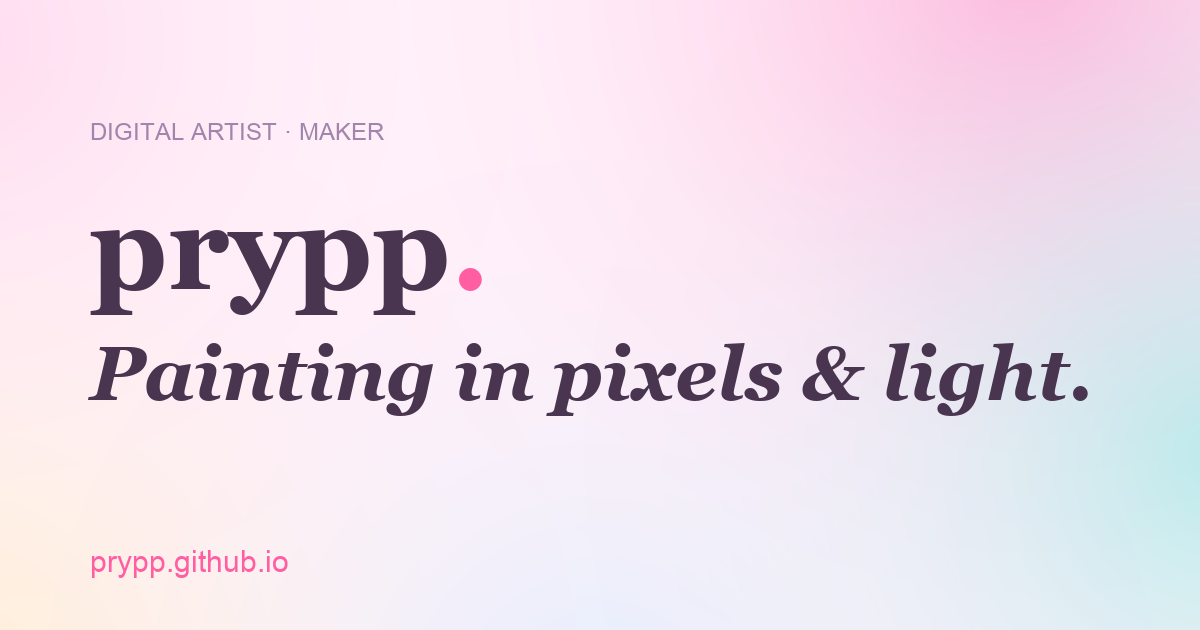
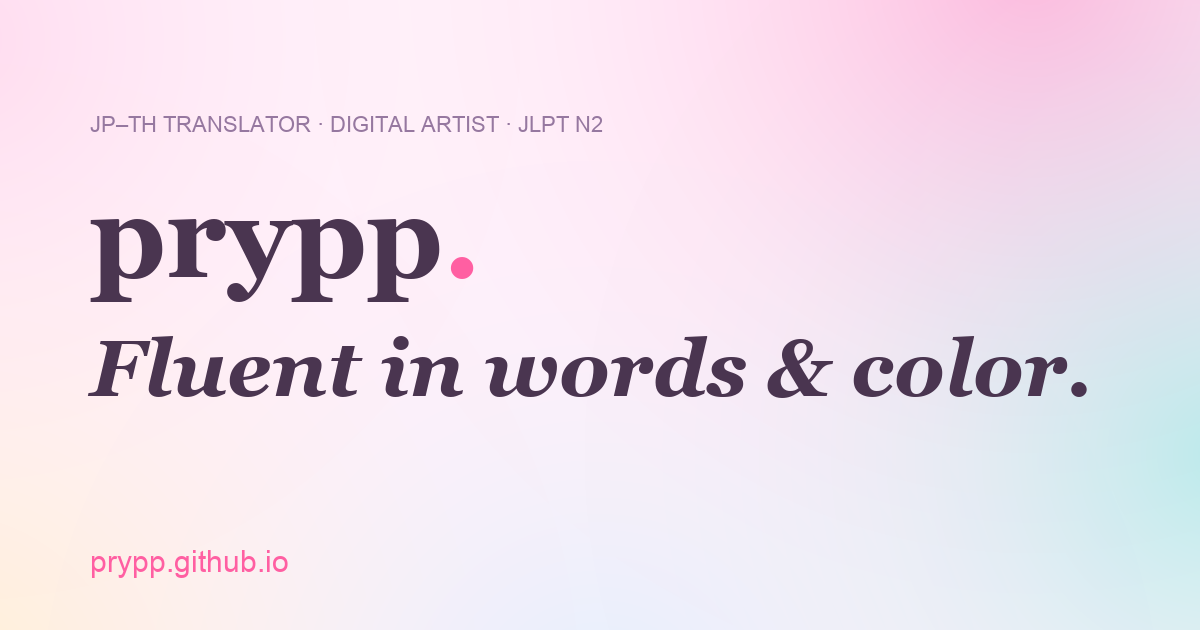
Reframe as dual portfolio: JP translator (primary) + art showcase
Add Experience timeline (4 roles), reorder About->Experience->Art,
dual hero (Fluent in words & color), languages/JLPT N2/TOEIC 640 facts,
art gallery as showcase, updated meta + OG image.

Changed region(s): [[0.0617, 0.3317, 0.925, 0.6635], [0.0617, 0.181, 0.5242, 0.2413]]

diff --git a/index.html b/index.html
@@ -3,8 +3,8 @@
 <head>
 <meta charset="UTF-8" />
 <meta name="viewport" content="width=device-width, initial-scale=1.0" />
-<title>prypp — Digital Artist & Maker</title>
-<meta name="description" content="Portfolio of prypp — digital artist and maker. Painting, illustration, and creative tooling." />
+<title>prypp — Japanese–Thai Translator & Digital Artist</title>
+<meta name="description" content="Portfolio of prypp — Japanese–Thai translator and interpreter (JLPT N2) and digital artist. Work history, languages, and art." />
 <meta name="theme-color" content="#fff2fb" />
 <link rel="canonical" href="https://prypp.github.io/" />
 <!-- favicon: hot-pink 'p.' mark on soft pink -->
@@ -12,14 +12,14 @@
 <!-- Open Graph / social share -->
 <meta property="og:type" content="website" />
 <meta property="og:url" content="https://prypp.github.io/" />
-<meta property="og:title" content="prypp — Digital Artist & Maker" />
-<meta property="og:description" content="Painting in pixels & light. Digital painting, illustration, and creative tooling." />
+<meta property="og:title" content="prypp — Japanese–Thai Translator & Digital Artist" />
+<meta property="og:description" content="Fluent in words & color. JP–TH translator/interpreter (JLPT N2) and digital artist." />
 <meta property="og:image" content="https://prypp.github.io/og.png" />
 <meta property="og:image:width" content="1200" />
 <meta property="og:image:height" content="630" />
 <meta name="twitter:card" content="summary_large_image" />
-<meta name="twitter:title" content="prypp — Digital Artist & Maker" />
-<meta name="twitter:description" content="Painting in pixels & light. Digital painting, illustration, and creative tooling." />
+<meta name="twitter:title" content="prypp — Japanese–Thai Translator & Digital Artist" />
+<meta name="twitter:description" content="Fluent in words & color. JP–TH translator/interpreter (JLPT N2) and digital artist." />
 <meta name="twitter:image" content="https://prypp.github.io/og.png" />
 <link rel="preconnect" href="https://fonts.googleapis.com" />
 <link rel="preconnect" href="https://fonts.gstatic.com" crossorigin />
@@ -262,6 +262,16 @@
   .svc-item h3{font-family:"Cormorant",serif;font-weight:600;font-size:30px;margin:12px 0 10px}
   .svc-item p{color:var(--cream-dim);font-size:15px}
 
+  /* ---------- EXPERIENCE ---------- */
+  .timeline{border-top:1px solid var(--line)}
+  .xp{display:grid;grid-template-columns:210px 1fr;gap:32px;padding:28px 0;border-bottom:1px solid var(--line);transition:background .3s,padding-left .3s var(--ease)}
+  .xp:hover{background:rgba(255,255,255,.45);padding-left:14px}
+  @media(max-width:680px){.xp{grid-template-columns:1fr;gap:8px}.xp:hover{padding-left:0}}
+  .xp .period{font-size:13px;font-weight:600;color:var(--vermilion);letter-spacing:.01em}
+  .xp .place{font-size:13px;color:var(--cream-dim);margin-top:5px;line-height:1.45}
+  .xp h3{font-family:"Cormorant",serif;font-weight:600;font-size:27px;line-height:1.05}
+  .xp p{color:var(--cream-dim);font-size:15px;margin-top:9px;max-width:66ch}
+
   /* ---------- CONTACT ---------- */
   .contact{text-align:center}
   .contact .big{font-family:"Cormorant",serif;font-weight:600;font-size:clamp(44px,9.5vw,130px);line-height:1;letter-spacing:-.02em}
@@ -299,9 +309,9 @@
 <nav id="nav">
   <a class="brand" href="#top">pry<span>pp.</span></a>
   <div class="nav-links">
-    <a href="#work">Work</a>
     <a href="#about">About</a>
-    <a href="#services">Services</a>
+    <a href="#experience">Experience</a>
+    <a href="#art">Art</a>
     <a href="#contact">Contact</a>
   </div>
 </nav>
@@ -324,11 +334,11 @@
   <span class="spark s5">✧</span>
 
   <div class="hero-body">
-    <span class="eyebrow load d1">Digital Artist · Maker · Bangkok</span>
-    <h1 class="load d2">Painting in<br>pixels &amp;<br><em class="shimmer">light.</em></h1>
-    <p class="hero-sub load d3">I make digital paintings, illustrations, and the small creative tools that help art happen.</p>
+    <span class="eyebrow load d1">JP–TH Translator · Digital Artist · JLPT N2</span>
+    <h1 class="load d2">Fluent in<br>words &amp;<br><em class="shimmer">color.</em></h1>
+    <p class="hero-sub load d3">Japanese–Thai translator and interpreter by trade, digital artist at heart — bridging two languages, and painting in between.</p>
     <div class="hero-cta load d4">
-      <a class="btn btn-primary magnetic" href="#work">View the work →</a>
+      <a class="btn btn-primary magnetic" href="#experience">See my work →</a>
       <a class="btn btn-ghost" href="#contact">Get in touch</a>
     </div>
   </div>
@@ -343,14 +353,73 @@
   </div>
 </div>
 
-<!-- WORK -->
-<section id="work" class="wrap">
+<!-- ABOUT -->
+<section id="about" class="wrap">
   <div class="sec-head reveal">
     <div>
-      <div class="sec-num">001 — Selected Work</div>
-      <h2 class="sec-title">A small <em>gallery</em></h2>
+      <div class="sec-num">001 — About</div>
+      <h2 class="sec-title">A bit <em>about me</em></h2>
     </div>
-    <p style="max-width:34ch;color:var(--cream-dim);font-size:15px">Placeholder pieces for now — drop your real artwork in and these update instantly.</p>
+  </div>
+  <div class="about-grid">
+    <div class="reveal">
+      <p class="about-lead">I'm a Japanese–Thai translator and interpreter — and a digital artist at heart. Equally at home <b>bridging two languages</b> and painting with light.</p>
+      <p class="about-body">By trade I work between Japanese and Thai (JLPT N2): translating business documents, interpreting, and supporting Japanese-facing teams — with frontline experience both in Japan and in Bangkok. On the side, I'm building a digital-art practice I hope to grow into something bigger. This portfolio is hand-built and open-source.</p>
+      <div class="facts">
+        <div class="fact"><span>Languages</span><span>JP (N2) · TH · EN</span></div>
+        <div class="fact"><span>Certificates</span><span>JLPT N2 · TOEIC 640</span></div>
+        <div class="fact"><span>Field</span><span>Translation · Interpretation</span></div>
+        <div class="fact"><span>Also</span><span>Digital Art · Illustration</span></div>
+        <div class="fact"><span>Based in</span><span>Thailand ⇄ Japan</span></div>
+        <div class="fact"><span>Open to</span><span>Work · Art commissions</span></div>
+      </div>
+    </div>
+    <div class="portrait reveal">
+      <div class="canvas cp"></div>
+      <span class="tag">Portrait</span>
+      <span class="mono">P.</span>
+      <div class="pmeta">Self-portrait · placeholder</div>
+    </div>
+  </div>
+</section>
+
+<!-- EXPERIENCE -->
+<section id="experience" class="wrap">
+  <div class="sec-head reveal">
+    <div>
+      <div class="sec-num">002 — Experience</div>
+      <h2 class="sec-title">Work <em>history</em></h2>
+    </div>
+    <p style="max-width:34ch;color:var(--cream-dim);font-size:15px">Japanese-facing roles across Thailand and Japan.</p>
+  </div>
+  <div class="timeline stagger reveal">
+    <div class="xp">
+      <div><div class="period">Sep 2025 — Present</div><div class="place">Freelance · Corporate &amp; individual clients</div></div>
+      <div><h3>Japanese–Thai Translator</h3><p>Translate business documents, contracts and presentations between Japanese and Thai. Support business-consulting workflows through accurate JP–TH localization, leveraging JLPT N2 proficiency.</p></div>
+    </div>
+    <div class="xp">
+      <div><div class="period">Mar 2025 — Sep 2025</div><div class="place">KCC Co., Ltd. (LeTAO Store)<br>Otaru, Hokkaido 🇯🇵</div></div>
+      <div><h3>Shop Sales</h3><p>Served 60+ Japanese, English and multilingual customers daily at a premium confectionery brand. Operated POS systems, handled daily cashier reconciliation, and managed inventory and displays through high-traffic festival seasons.</p></div>
+    </div>
+    <div class="xp">
+      <div><div class="period">May 2024 — Feb 2025</div><div class="place">Otani Supermarket<br>Tochigi 🇯🇵</div></div>
+      <div><h3>Part-time Cashier</h3><p>Managed checkout operations and provided daily customer service.</p></div>
+    </div>
+    <div class="xp">
+      <div><div class="period">Jan 2019 — Jun 2022</div><div class="place">DYM International Clinic<br>Bangkok 🇹🇭</div></div>
+      <div><h3>Reception Manager &amp; Administration</h3><p>Supervised a front-desk team of 5+, managed schedules and coordinated general affairs for Japanese medical staff. Handled 30+ multilingual inquiries daily, drafted trilingual official documents, provided Japanese–Thai medical interpretation, and assisted with invoices and OT calculations.</p></div>
+    </div>
+  </div>
+</section>
+
+<!-- ART PORTFOLIO -->
+<section id="art" class="wrap">
+  <div class="sec-head reveal">
+    <div>
+      <div class="sec-num">003 — Art Portfolio</div>
+      <h2 class="sec-title">Painting on the <em>side</em></h2>
+    </div>
+    <p style="max-width:40ch;color:var(--cream-dim);font-size:15px">A creative practice I'm growing toward — digital painting &amp; illustration, made with warmth and color. <em>(Placeholder pieces; real work coming soon.)</em></p>
   </div>
   <div class="gallery stagger reveal">
     <div class="piece span-7 wide"><div class="canvas c1"></div><span class="tag">Painting</span><div class="meta"><h3>Ember Bloom</h3><p>Digital painting · 2026</p></div></div>
@@ -363,40 +432,11 @@
   </div>
 </section>
 
-<!-- ABOUT -->
-<section id="about" class="wrap">
-  <div class="sec-head reveal">
-    <div>
-      <div class="sec-num">002 — About</div>
-      <h2 class="sec-title">The <em>hand</em> behind it</h2>
-    </div>
-  </div>
-  <div class="about-grid">
-    <div class="reveal">
-      <p class="about-lead">I'm a digital artist who paints with light and codes the tools that make the painting faster. I care about <b>warmth</b>, texture, and getting the small details exactly right.</p>
-      <p class="about-body">My work lives between the canvas and the command line — illustration and concept art on a tablet, and Python tooling for everything around it (brush pipelines, batch processing, generative studies). This portfolio itself is hand-built and open-source.</p>
-      <div class="facts">
-        <div class="fact"><span>Based in</span><span>Bangkok, TH</span></div>
-        <div class="fact"><span>Focus</span><span>Painting · Illustration</span></div>
-        <div class="fact"><span>Tools</span><span>GoPaint · Python · Pillow</span></div>
-        <div class="fact"><span>Open to</span><span>Commissions · Collabs</span></div>
-        <div class="fact"><span>Since</span><span>2025</span></div>
-      </div>
-    </div>
-    <div class="portrait reveal">
-      <div class="canvas cp"></div>
-      <span class="tag">Portrait</span>
-      <span class="mono">P.</span>
-      <div class="pmeta">Self-portrait · placeholder</div>
-    </div>
-  </div>
-</section>
-
 <!-- SERVICES -->
 <section id="services" class="wrap">
   <div class="sec-head reveal">
     <div>
-      <div class="sec-num">003 — Services</div>
+      <div class="sec-num">004 — Art Services</div>
       <h2 class="sec-title">What I <em>offer</em></h2>
     </div>
   </div>
@@ -412,18 +452,18 @@
 
 <!-- CONTACT -->
 <section id="contact" class="wrap contact">
-  <div class="sec-num reveal" style="text-align:center;margin-bottom:18px">004 — Contact</div>
+  <div class="sec-num reveal" style="text-align:center;margin-bottom:18px">005 — Contact</div>
   <div class="big reveal">Let's make<br>something <em>good.</em></div>
   <div class="socials reveal">
-    <a href="https://github.com/prypp" target="_blank" rel="noopener">GitHub ↗</a>
     <a href="mailto:[email redacted]">Email ↗</a>
+    <a href="https://github.com/prypp" target="_blank" rel="noopener">GitHub ↗</a>
+    <a href="#" target="_blank" rel="noopener">LinkedIn ↗</a>
     <a href="#" target="_blank" rel="noopener">Instagram ↗</a>
-    <a href="#" target="_blank" rel="noopener">ArtStation ↗</a>
   </div>
 </section>
 
 <footer class="wrap">
-  <span>© 2026 prypp — all work shown is placeholder.</span>
+  <span>© 2026 prypp · Japanese–Thai Translator &amp; Digital Artist</span>
   <span>Hand-built · Hosted on GitHub Pages</span>
 </footer>
 